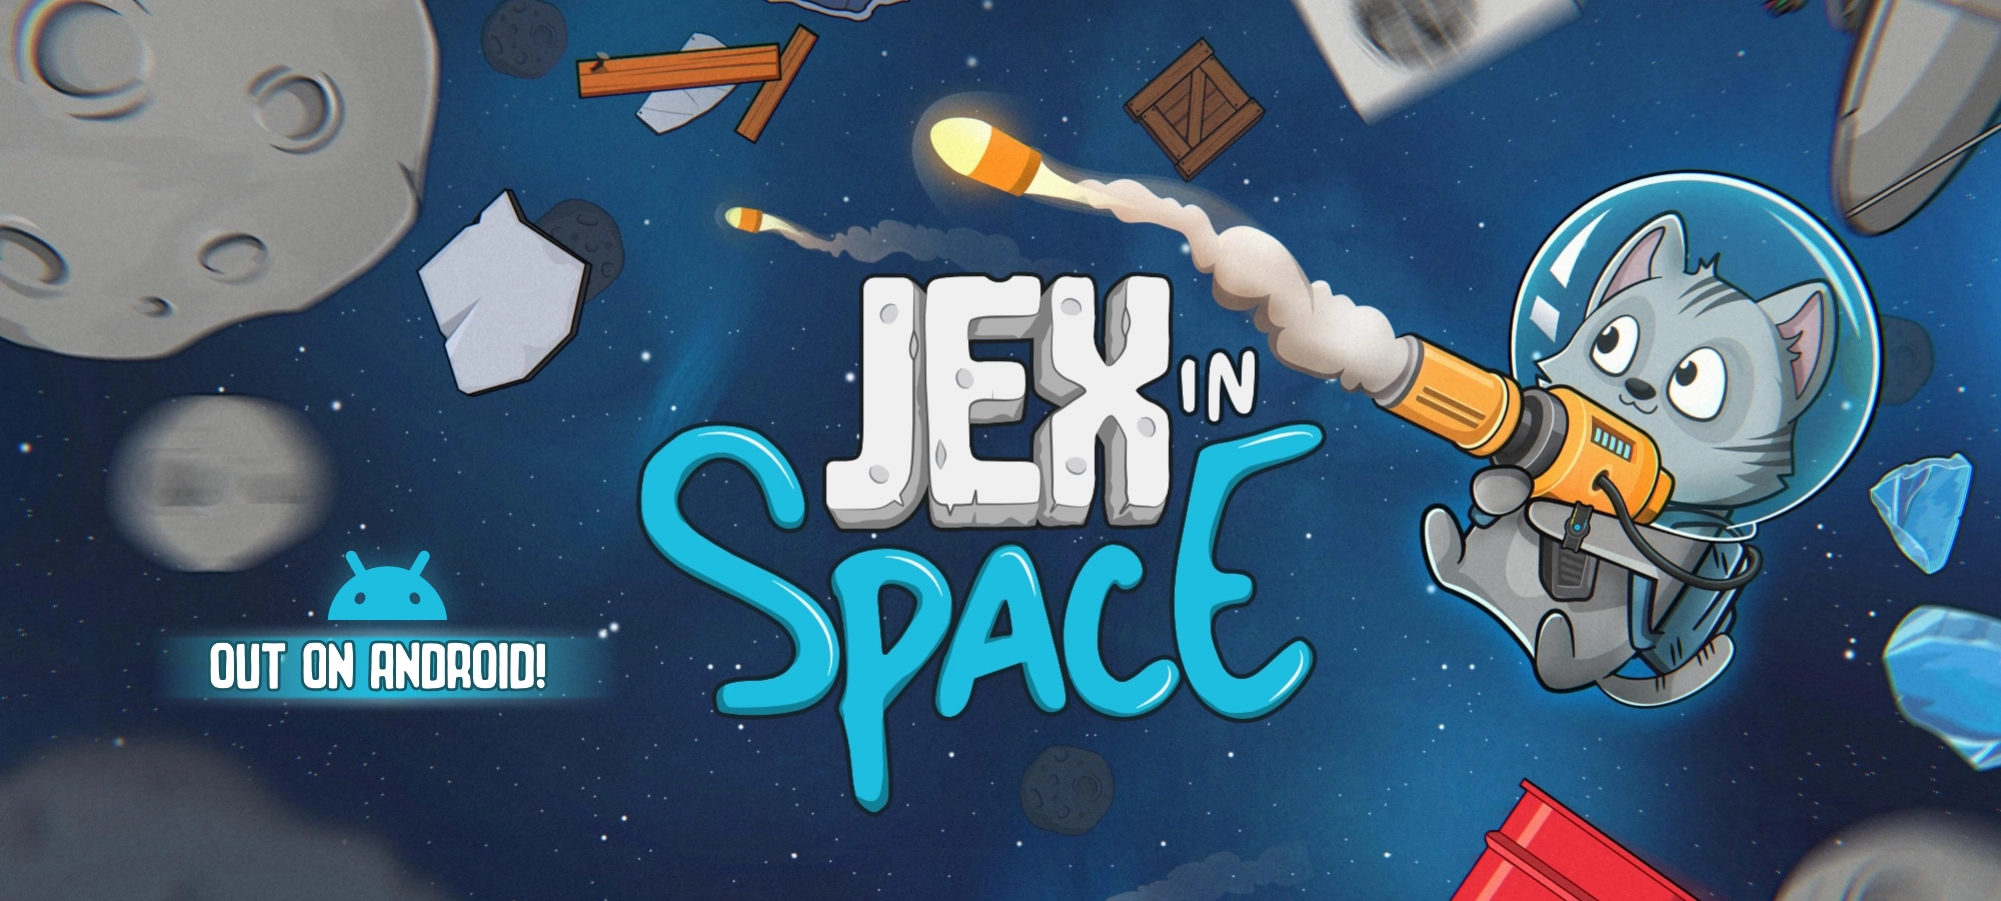
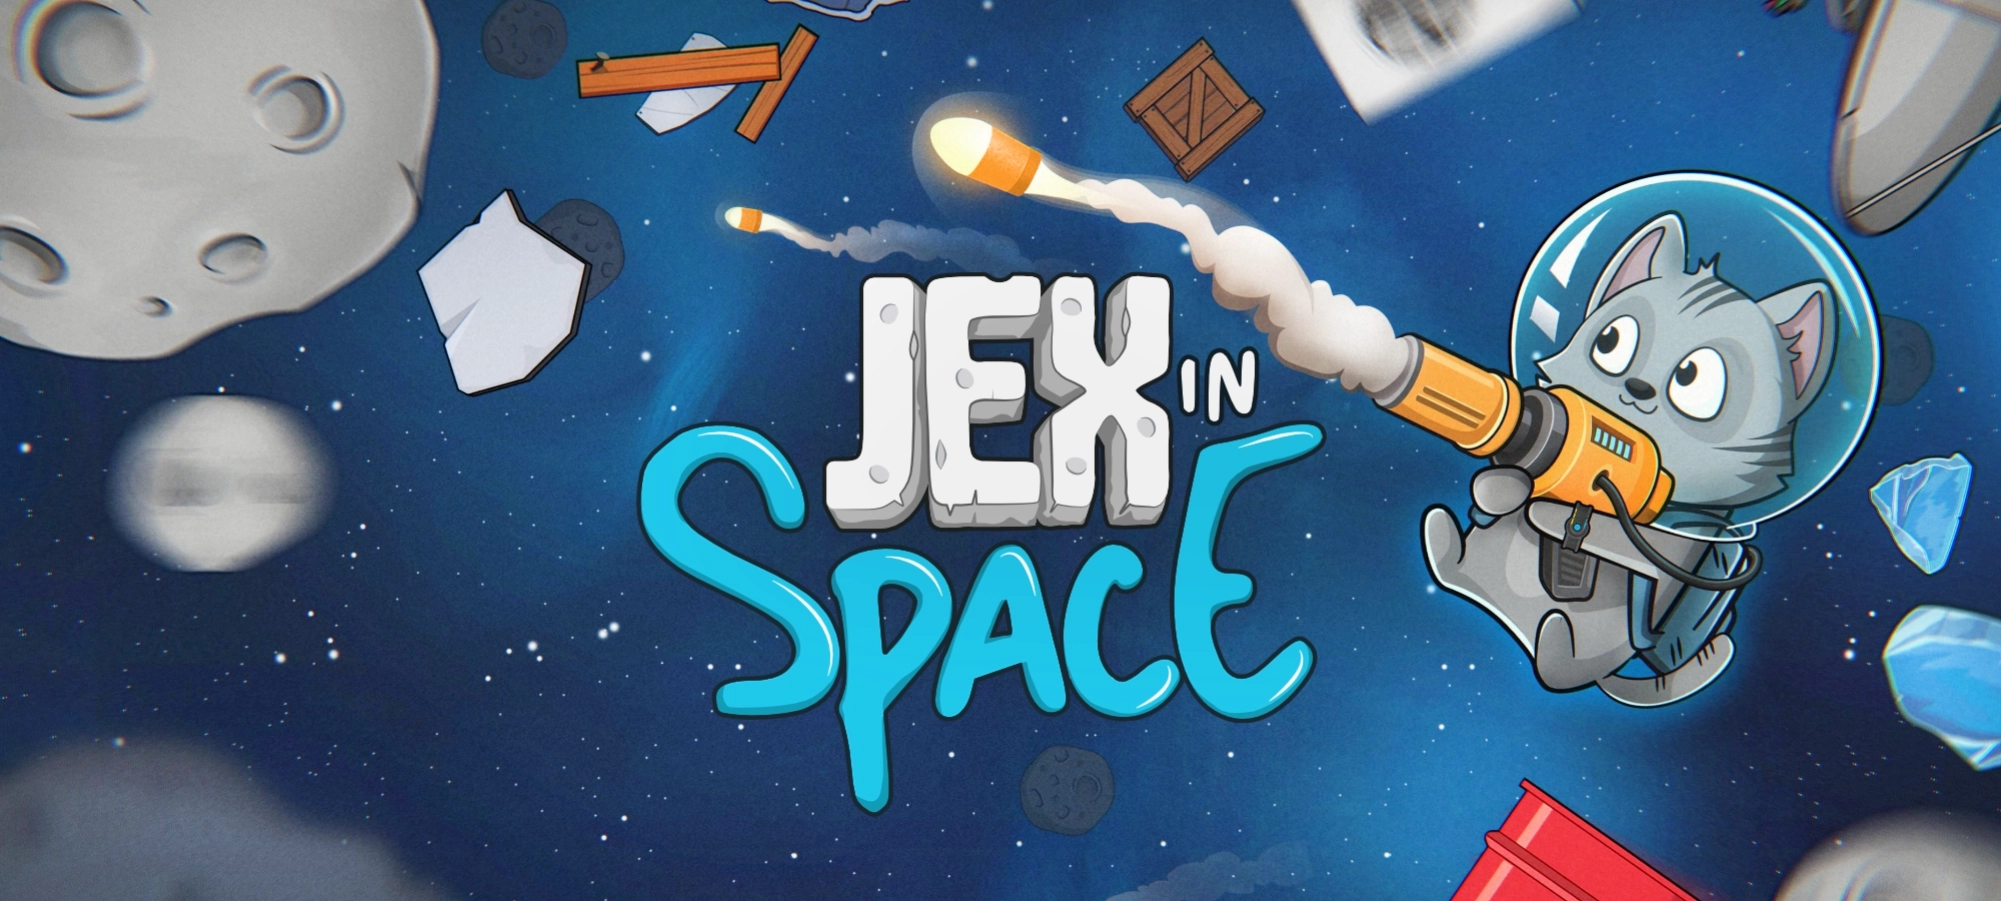
Improved jex cover

diff --git a/index.html b/index.html
@@ -191,7 +191,7 @@
 			<!-- FEATURED PROJECT 1 -->
 			<a href="projects/jex">
 				<div class="featured-project project1">
-				<img src="img/jex/jex-featured-cover.webp" alt="Jex">
+				<img src="img/jex/jex-featured-cover-v2.webp" alt="Jex">
 				<span class="overlay-text-role">SOLO DEVELOPER</span>
 				<div class="overlay-text-container">
 					<p class="overlay-text-title">Jex in Space</p>
